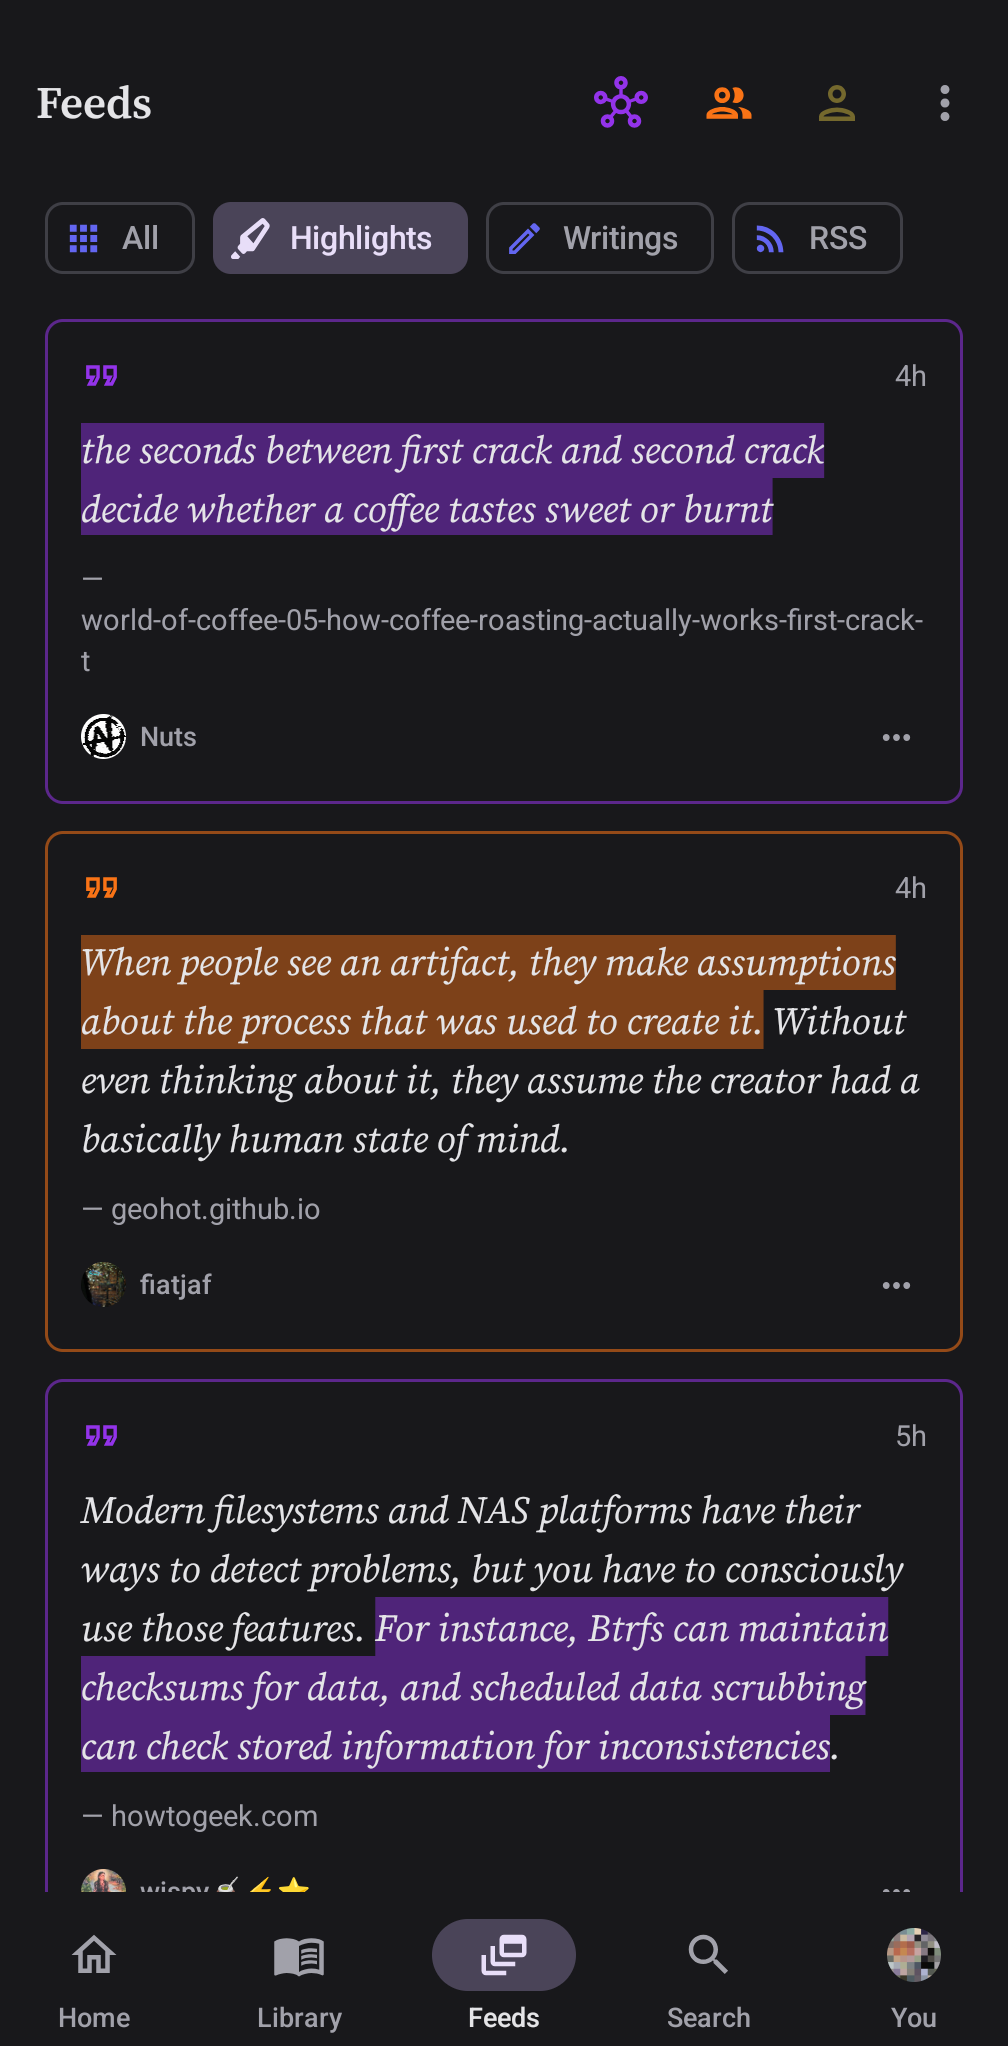
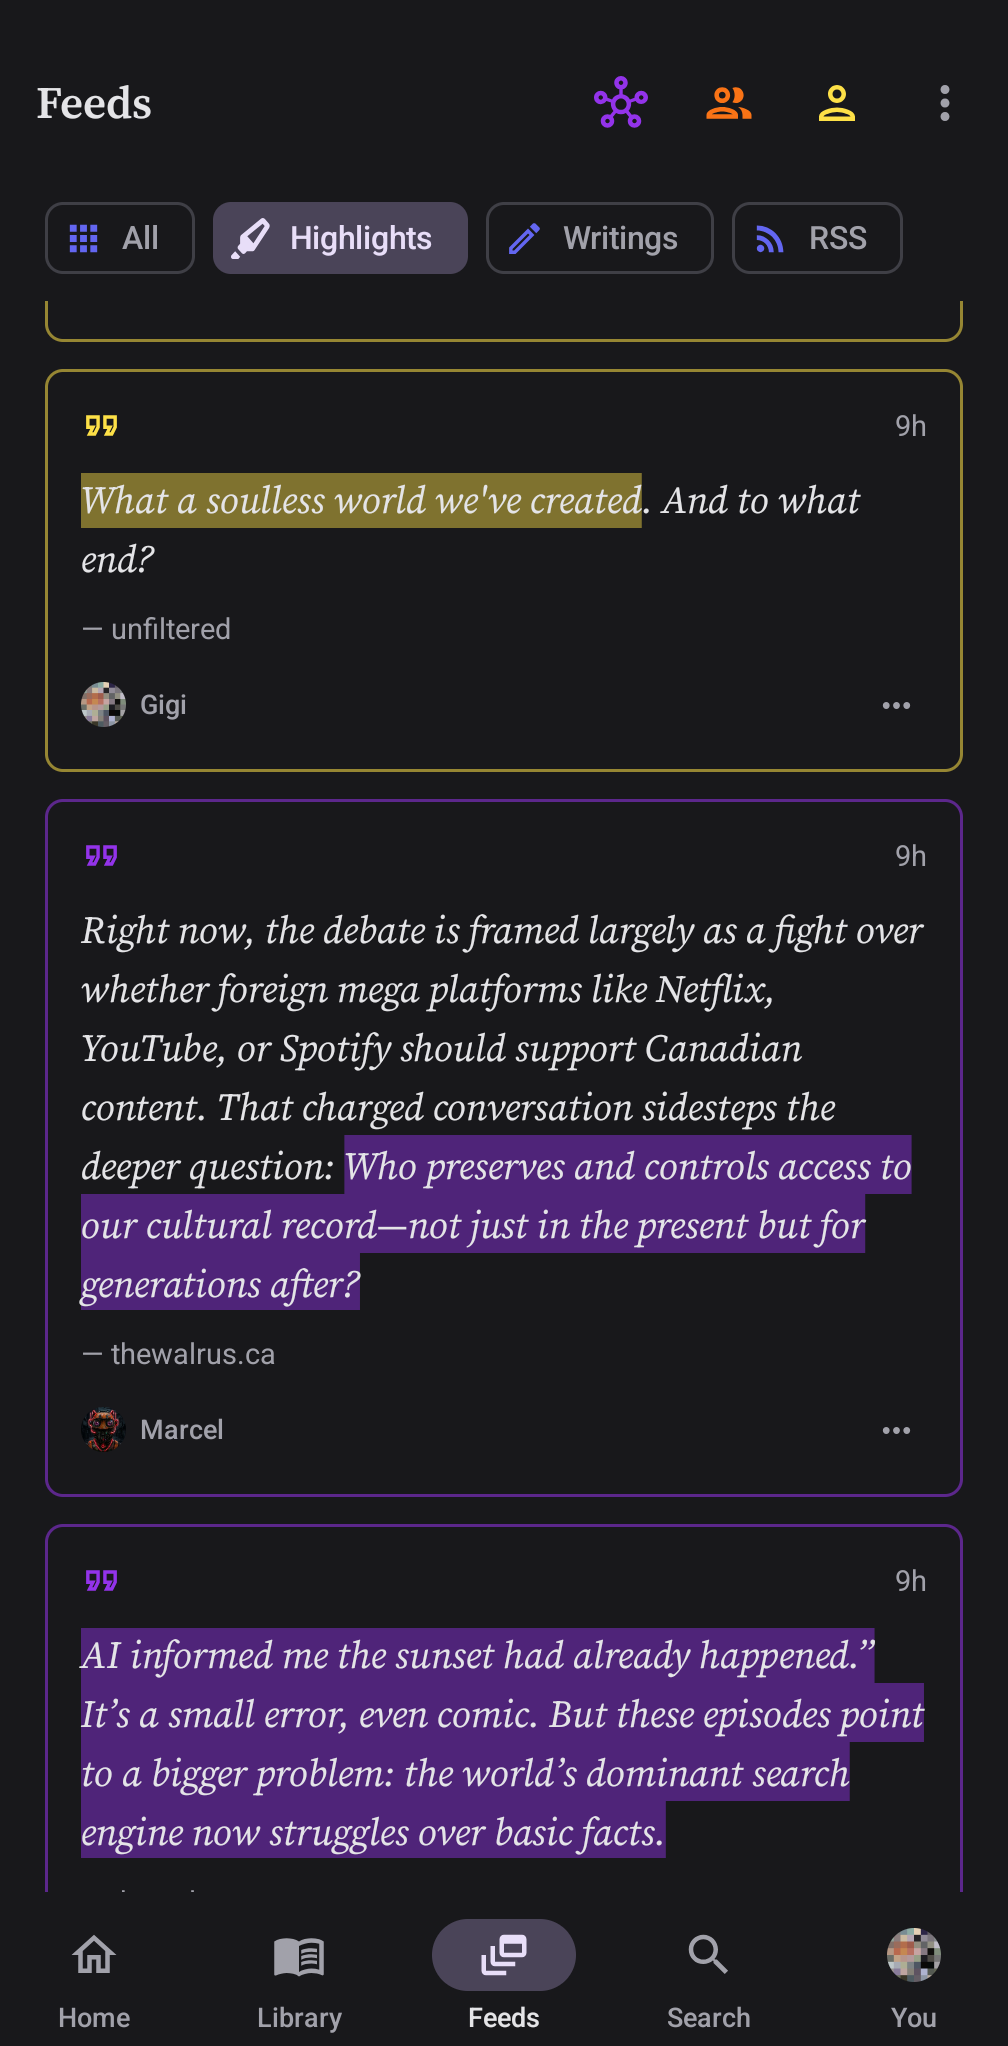
docs: add dark-mode Feeds and reader screenshots
Cropped status bar and gesture inset. README highlights row now
includes a dark article view; Feeds shot is refreshed.

diff --git a/README.md b/README.md
@@ -33,6 +33,7 @@ Dark mode. Your marks, friends' marks, and the rest of the nostrverse.
 <p align="center">
   <img src="screenshots/home.png" width="180" alt="Home" />
   <img src="screenshots/feeds.png" width="180" alt="Highlights feed" />
+  <img src="screenshots/reader-dark.png" width="180" alt="Article in dark mode" />
   <img src="screenshots/you.png" width="180" alt="Your highlights" />
   <img src="screenshots/search-highlight.png" width="180" alt="Search highlights" />
 </p>

diff --git a/CHANGELOG.md b/CHANGELOG.md
@@ -17,6 +17,7 @@ Commit messages follow [Conventional Commits](https://www.conventionalcommits.or
 
 - README and Zapstore screenshot sets drop the article cover shot
 - Light-mode reading screenshots include an orange highlight and an updated TTS shot
+- Dark-mode screenshots include an updated Feeds view and a dark article reader
 
 ## [1.4.10] - 2026-08-18
 
